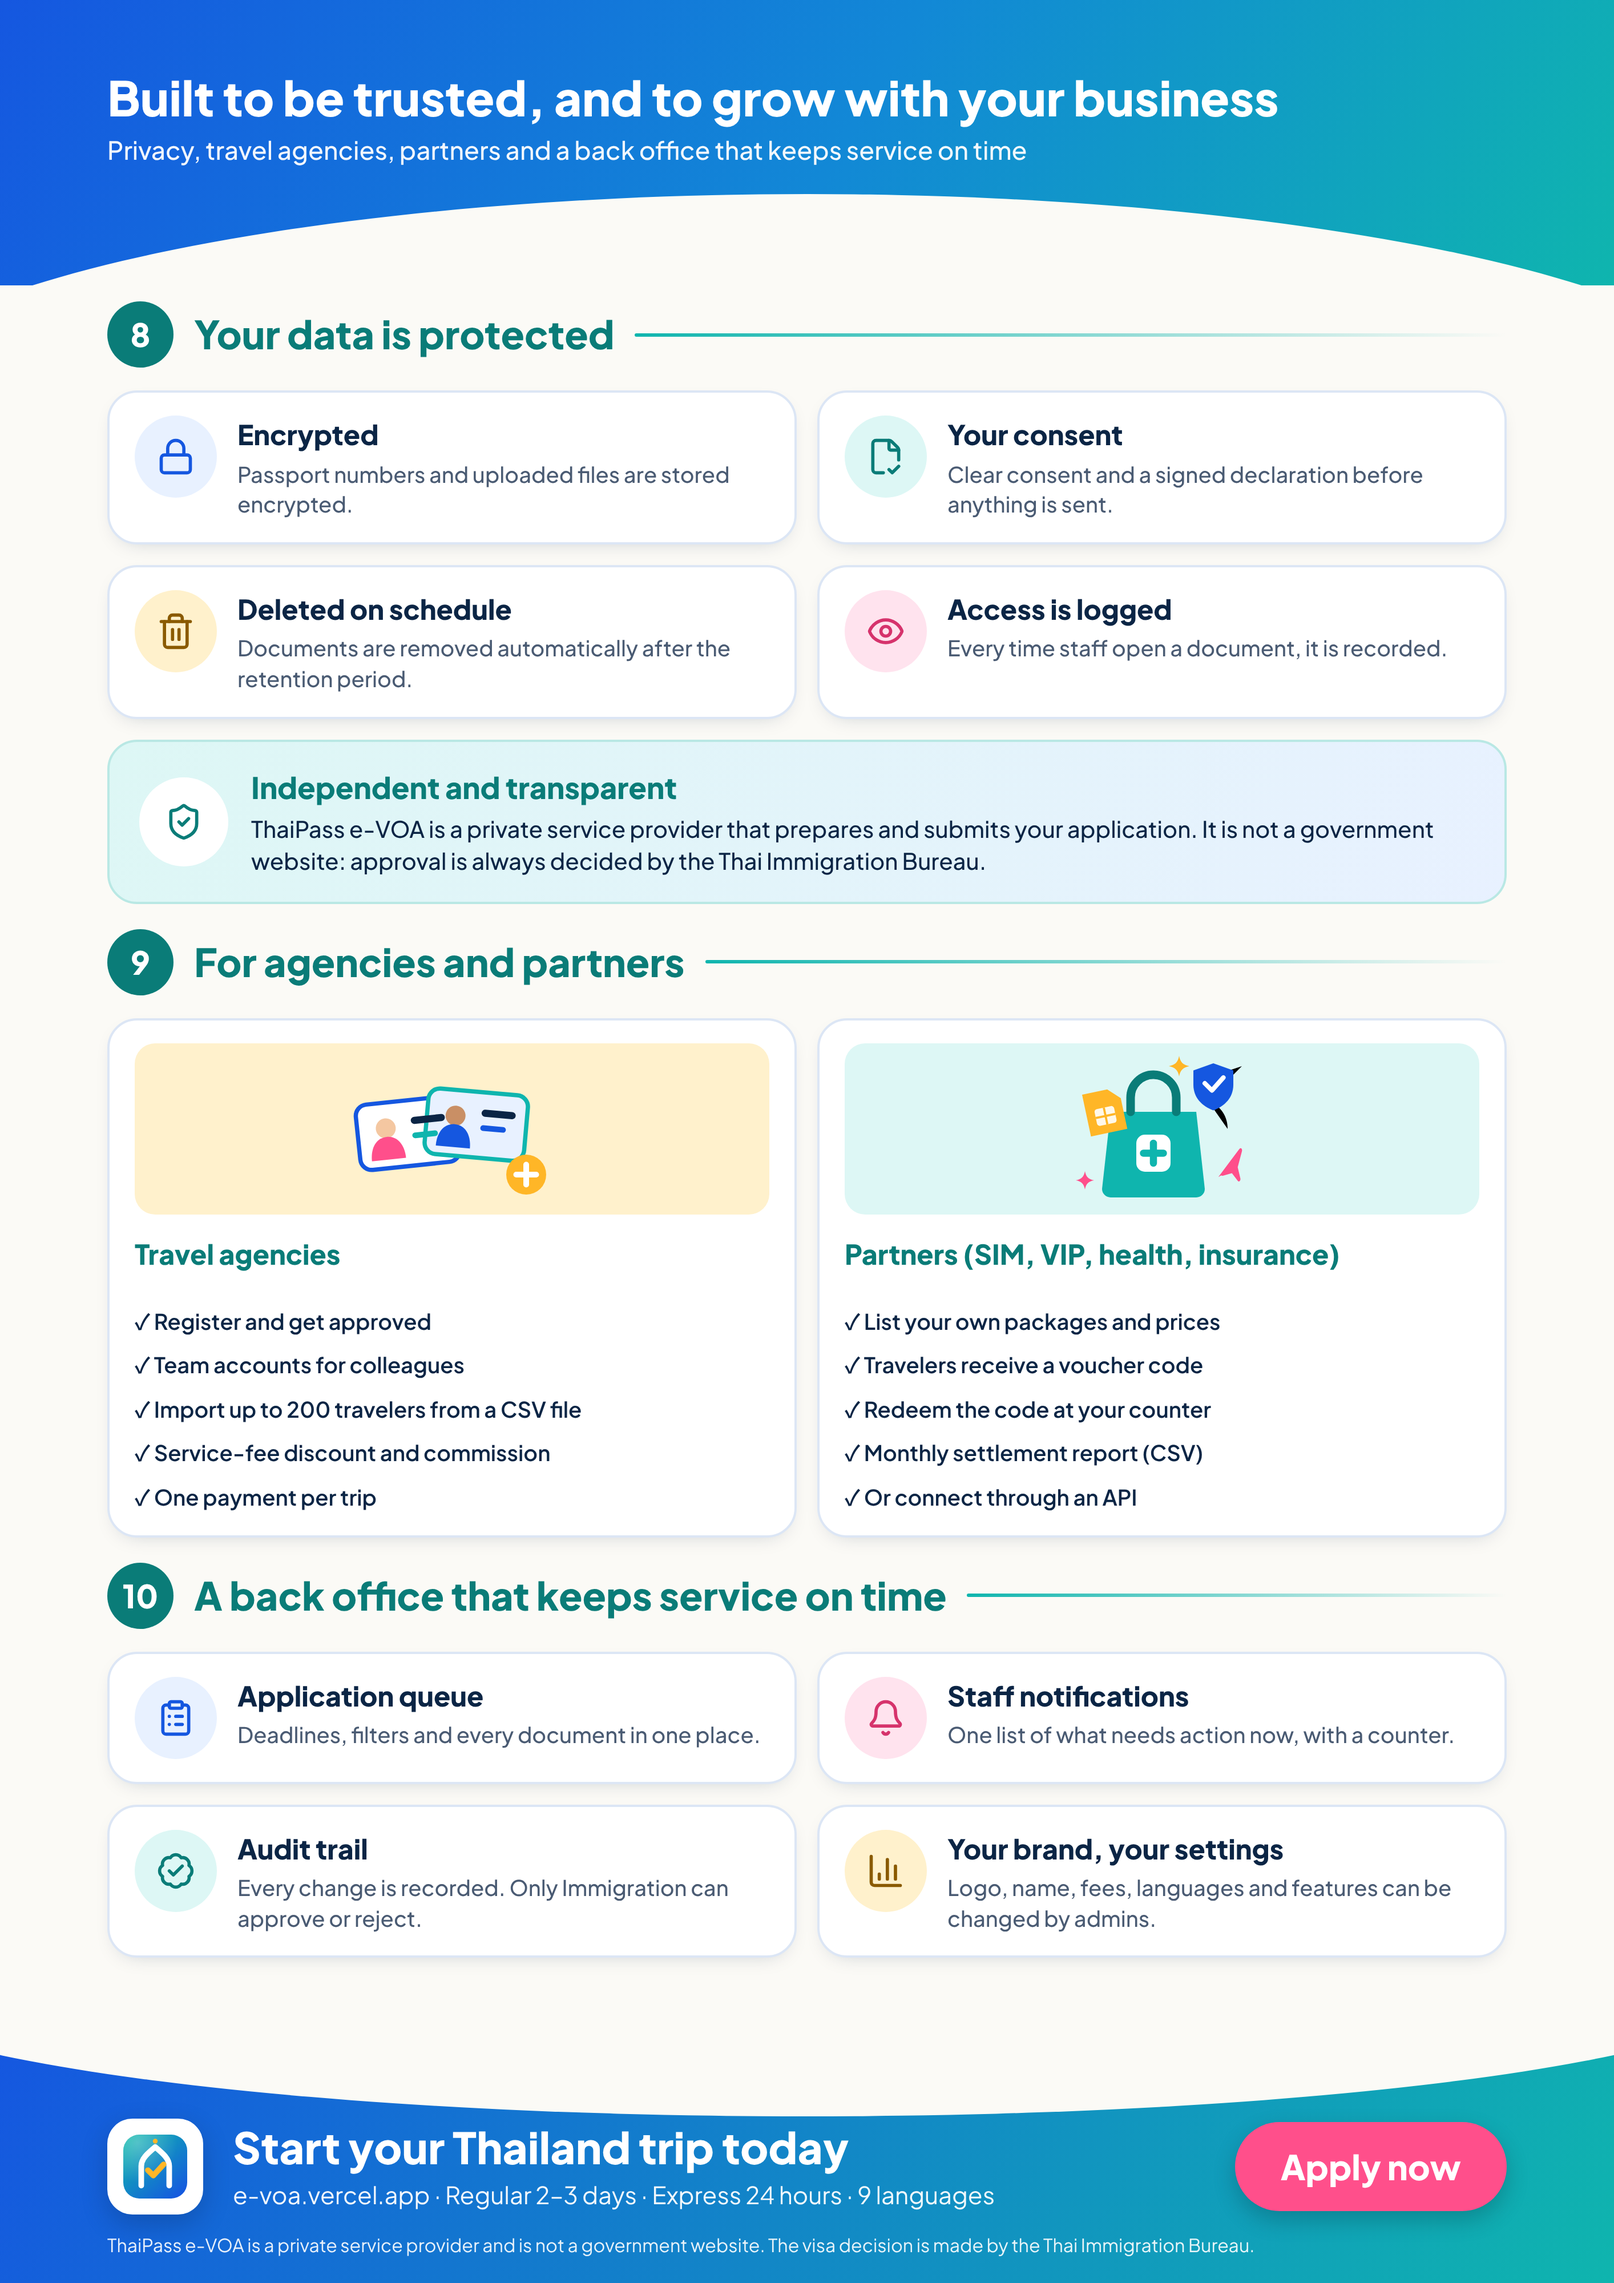
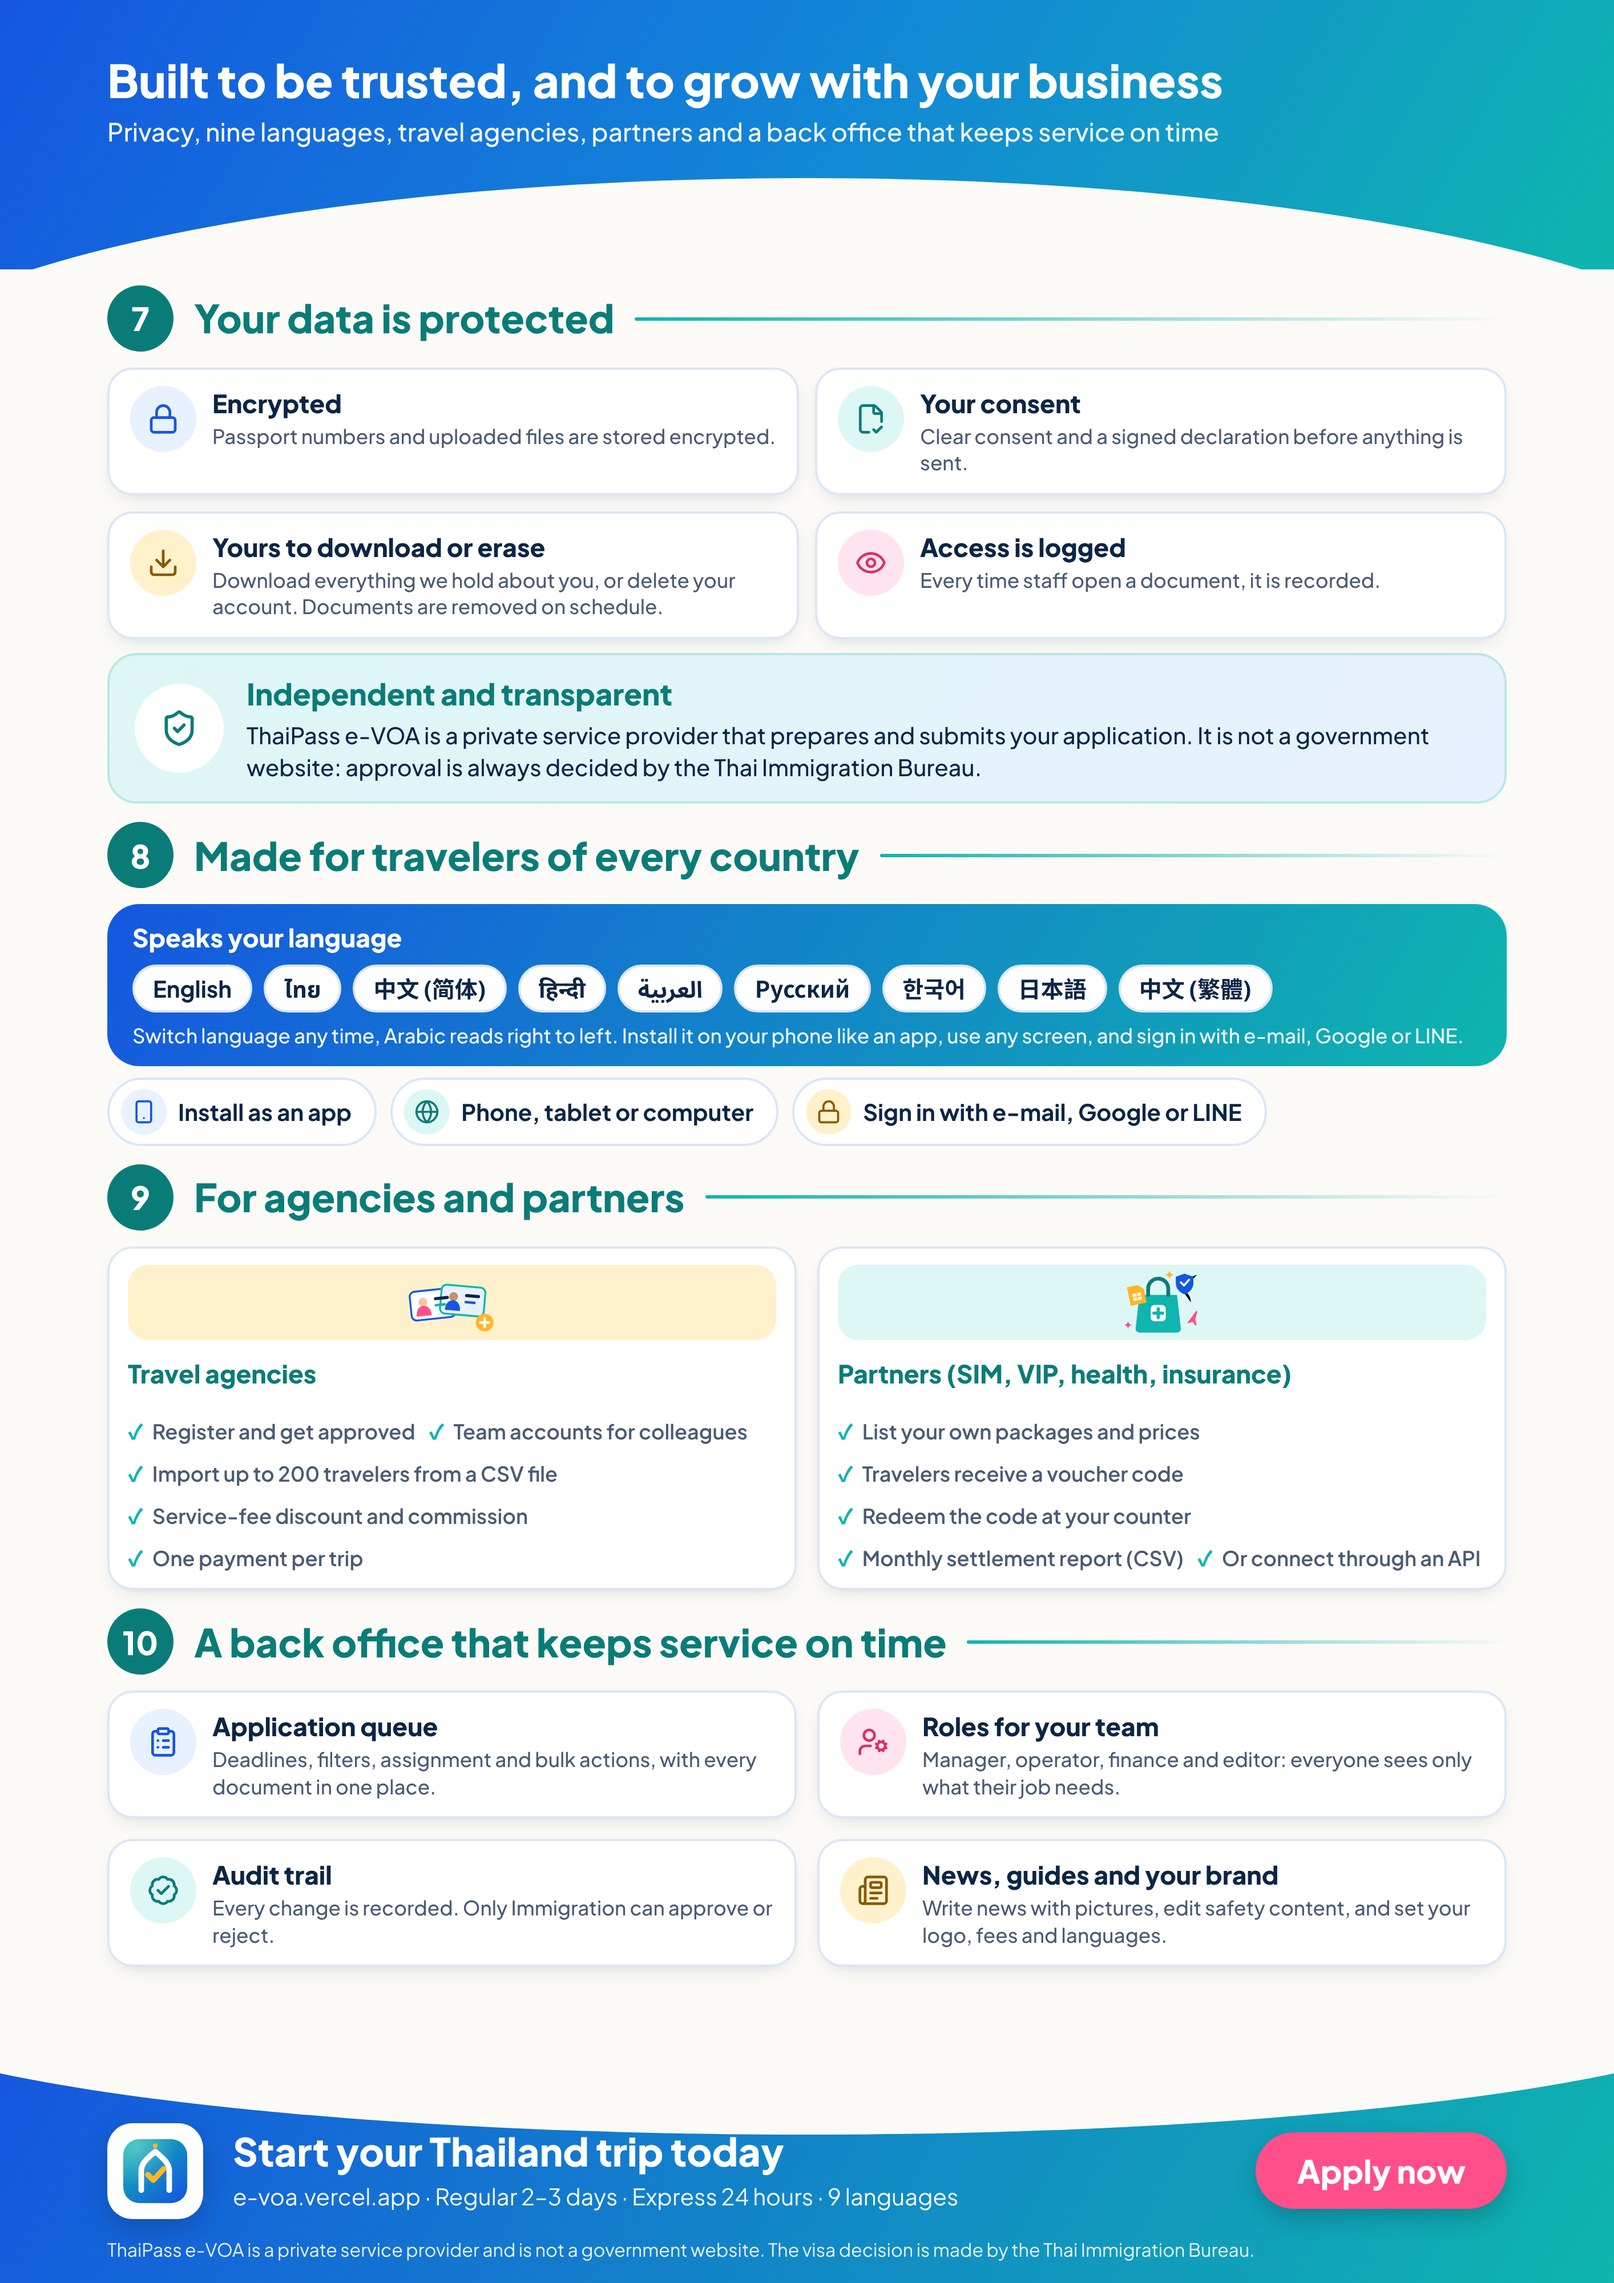
Infographic: updated EN/TH (3 pages each) to cover everything built so far
Claude-Session: https://claude.ai/code/session_018epPkWsPGUhjDvESfZR74e

diff --git a/tools/infographic/art.tsx b/tools/infographic/art.tsx
@@ -7,7 +7,7 @@ import { ART, HeroThailand } from "../../src/components/Art";
 
 const out: Record<string, string> = { hero: renderToStaticMarkup(<HeroThailand />) };
 for (const [k, v] of Object.entries(ART)) out[`art_${k}`] = renderToStaticMarkup(<div style={{ width: "100%", height: "100%" }}>{v}</div>);
-const icons = ["ScanLine", "Camera", "ShieldCheck", "Bell", "QrCode", "Plane", "CreditCard", "Receipt", "Search", "Smartphone", "Languages", "Users", "Building2", "Store", "Headset", "MessageCircle", "Map", "ListChecks", "Lock", "FileCheck2", "Globe", "Sparkles", "Wifi", "Crown", "HeartPulse", "Umbrella", "Download", "Clock", "Zap", "BadgeCheck", "FileText", "RefreshCcw", "UserCheck", "Ticket", "BarChart3", "ClipboardList", "Handshake", "Banknote", "Eye", "Trash2", "Scale", "LayoutGrid", "MapPin", "Star", "Check", "ArrowRight", "ChevronRight"] as const;
+const icons = ["ScanLine", "Camera", "ShieldCheck", "Bell", "QrCode", "Plane", "CreditCard", "Receipt", "Search", "Smartphone", "Languages", "Users", "Building2", "Store", "Headset", "MessageCircle", "Map", "ListChecks", "Lock", "FileCheck2", "Globe", "Sparkles", "Wifi", "Crown", "HeartPulse", "Umbrella", "Download", "Clock", "Zap", "BadgeCheck", "FileText", "RefreshCcw", "UserCheck", "Ticket", "BarChart3", "ClipboardList", "Handshake", "Banknote", "Eye", "Trash2", "Scale", "LayoutGrid", "MapPin", "Star", "Check", "ArrowRight", "ChevronRight", "Siren", "TriangleAlert", "CloudSun", "CalendarClock", "Bike", "FolderLock", "HeartHandshake", "Link", "Newspaper", "UserCog"] as const;
 for (const n of icons) { const C = (L as unknown as Record<string, React.ComponentType<{ size?: number; strokeWidth?: number }>>)[n]; if (!C) { console.error("missing icon", n); continue; } out[`i_${n}`] = renderToStaticMarkup(createElement(C, { size: 28, strokeWidth: 2 })); }
 writeFileSync(process.argv[2] ?? "art.json", JSON.stringify(out));
 console.log("art ok", Object.keys(out).length);

diff --git a/docs/evoa/ROADMAP.md b/docs/evoa/ROADMAP.md
@@ -141,6 +141,8 @@ Legend: ✅ done · 🟡 started / needs your action · ⬜ not started. Owner d
 
 | **10 Nov round, news**: ✅ rich text and pictures in news (`/admin/content?kind=news`, shown on `/news`): `## heading`, `**bold**`, `*italic*`, `[link](https://…)`, lists, `>` highlighted note, divider, and an **Add picture** button (PNG/JPG/WebP up to 6 MB; checked by content, shrunk to 1600 px, re-saved as WebP which also removes camera data such as GPS; stored in the existing private `brand-assets` bucket under `news/`, served by `/news-img/<random name>`, so **no database change**). Text is never run as HTML (a small parser → React elements; only http(s), mailto and in-site links; only our own picture addresses), a toolbar and a preview in the editor, the home banner and the AI assistant read the plain text, old plain-text news still shows with its line breaks, and deleting a news item removes pictures nothing else uses. Tests: `rich.test.ts` (parser, unsafe links, HTML as text) and `tests-live/news-rich.live.test.ts` (real Storage) | ✅ |
 
+| **10 Nov round, infographic**: ✅ the infographic (`docs/evoa/infographic/ThaiPass-eVOA-infographic-{EN,TH}-{1,2,3}.png`, 3 pages each, system colours, the app's own illustrations) now covers everything built so far: the 4-step flow, safety companion (emergency numbers and Thai phrases, incident guides, weather/air/official warnings with phone alerts, rules check, TDAC and Stay Guard, motorbike rental helper, offline vault and health card, family check-in, AI assistant, airport guide), add-ons, prices and refunds, pay-later links, privacy (download/erase), nine languages, agencies and partners, and the back office (roles, bulk actions, audit trail, news with pictures). Rebuild: `npx vite-node tools/infographic/art.tsx /tmp/art.json` then `node tools/infographic/build.mjs /tmp/art.json <out-dir> .` | ✅ |
+
 ## Still planned
 
 ⬜ TAT API / scheduled data feed · ⬜ wallet passes for other states (boarding-style flight reminders) · ⬜ discount codes for add-ons / per-agency codes
